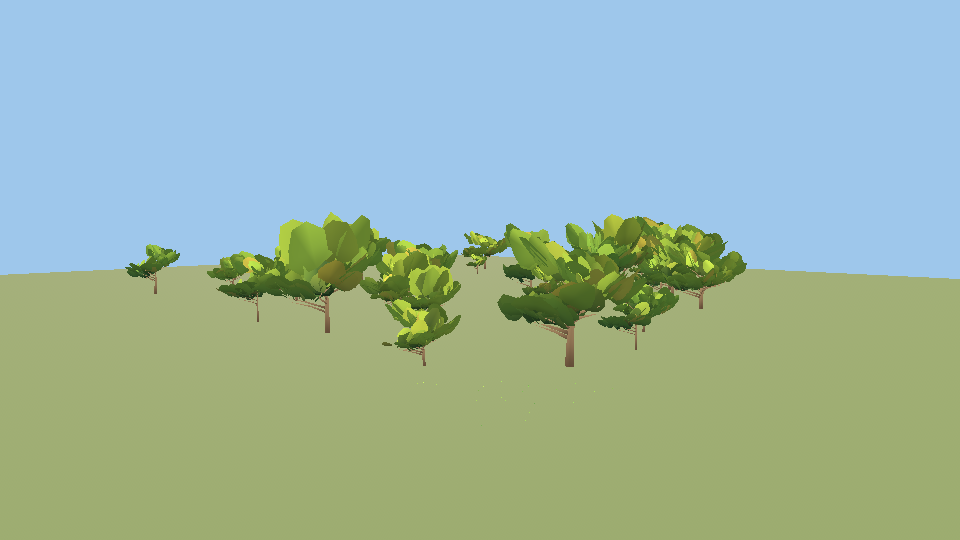
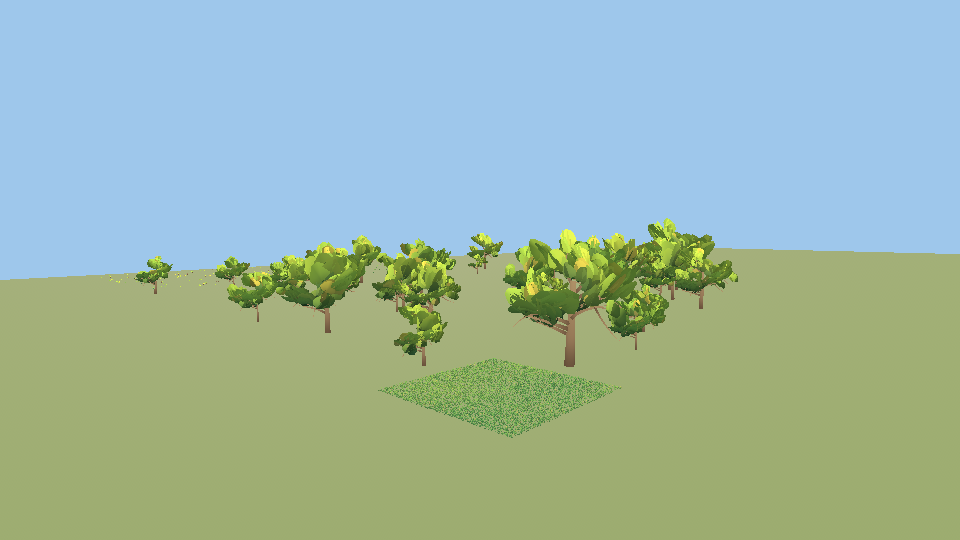
docs: refresh grove playground captures through 1 km
Retake legacy/GPU vista and edge stills after the far-band LOD lift, and add
a FAR corridor shot covering 200 m to 1 km. GPU application intervals rose
on llvmpipe because distant plants now submit. Receipts and the parity table
in `profiling/grove-owned-visuals.md` match these PNGs.

## Agent Dialogue

- **Developer:** Refresh the parity table and playground captures, including a far view of 200 m–1 km coverage, and list the raw paths with the SHA.
- **Agent:** Captured vista/edge/far on llvmpipe (960×540, shadows off) and committed the PNGs plus receipts.

Changed region(s): [[0.0, 0.3852, 1.0, 0.6519], [0.4062, 0.6519, 0.6562, 0.8]]

diff --git a/profiling/grove-owned-visuals.md b/profiling/grove-owned-visuals.md
@@ -91,14 +91,18 @@ The playground grows the same stacked kinds, translated to the origin so cameras
 
 GPU tree descriptors for this scene: 34 plants / 767 branches / 16,639 leaves, 1,129,520 B upload, plus 149 bushes and 2,220 grove grass samples. The grass-field resource also still holds 24,336 blades from the playground turf cover (`gpu-grass-cover`), so the capture receipt's `grass=26556` is cover + grove tufts, not grove-only.
 
+Refreshed after lifting grove `card_m` so shaders keep High/Medium/Low through 1 km. GPU application intervals rose versus the earlier ~25 ms p95 because far plants now submit instead of vanishing at 90–110 m. Kit p95/max of 250.000 ms is still Bevy's max-delta clamp (a lower bound). Floor shots were not retaken.
+
 | Shot | Camera | mean ms | p95 ms | max ms | entities | kit meshes | Mesh3d |
 |---|---|---:|---:|---:|---:|---:|---:|
 | forest-vista-legacy | VISTA | 250.000 | 250.000 | 250.000 | 22,034 | 21,533 | 21,536 |
-| forest-vista-gpu | VISTA | 23.723 | 25.025 | 26.306 | 515 | 0 | 3 |
+| forest-vista-gpu | VISTA | 91.615 | 93.041 | 93.871 | 515 | 0 | 3 |
 | forest-edge-legacy | EDGE | 250.000 | 250.000 | 250.000 | 22,034 | 21,533 | 21,536 |
-| forest-edge-gpu | EDGE | 24.212 | 26.596 | 28.578 | 515 | 0 | 3 |
+| forest-edge-gpu | EDGE | 80.365 | 81.764 | 86.678 | 515 | 0 | 3 |
 | forest-floor-legacy | FLOOR | 250.000 | 250.000 | 250.000 | 22,034 | 21,533 | 21,536 |
 | forest-floor-gpu | FLOOR | 24.643 | 27.328 | 28.550 | 515 | 0 | 3 |
+| forest-far-legacy | FAR | 250.000 | 250.000 | 250.000 | 32,536 | 32,035 | 32,038 |
+| forest-far-gpu | FAR | 120.287 | 122.024 | 124.777 | 521 | 0 | 3 |
 
 GPU `kit_meshes=0` is `KitPreview` count. `Mesh3d=3` is the forest ground plane plus two hidden turf stand-ins, not vegetation kits.
 
@@ -110,6 +114,8 @@ Screenshots (960×540) and receipts, committed with this revision:
 - [`maybraid/world/layers/vegetation/tree-field-playground/captures/forest-edge-gpu.png`](maybraid/world/layers/vegetation/tree-field-playground/captures/forest-edge-gpu.png)
 - [`maybraid/world/layers/vegetation/tree-field-playground/captures/forest-floor-legacy.png`](maybraid/world/layers/vegetation/tree-field-playground/captures/forest-floor-legacy.png)
 - [`maybraid/world/layers/vegetation/tree-field-playground/captures/forest-floor-gpu.png`](maybraid/world/layers/vegetation/tree-field-playground/captures/forest-floor-gpu.png)
+- [`maybraid/world/layers/vegetation/tree-field-playground/captures/forest-far-legacy.png`](maybraid/world/layers/vegetation/tree-field-playground/captures/forest-far-legacy.png)
+- [`maybraid/world/layers/vegetation/tree-field-playground/captures/forest-far-gpu.png`](maybraid/world/layers/vegetation/tree-field-playground/captures/forest-far-gpu.png)
 
 Not measured: native Metal world-route frame times, Tracy, GPU pass duration, live re-upload counts, entity/archetype churn, peak gameplay memory, oak/rory *appearance* (they use the storybook recipe on purpose), collider parity for non-Storybook GPU groves, or shadows-on appearance. Nix was not available; tests used `cargo --locked --release`.
 
